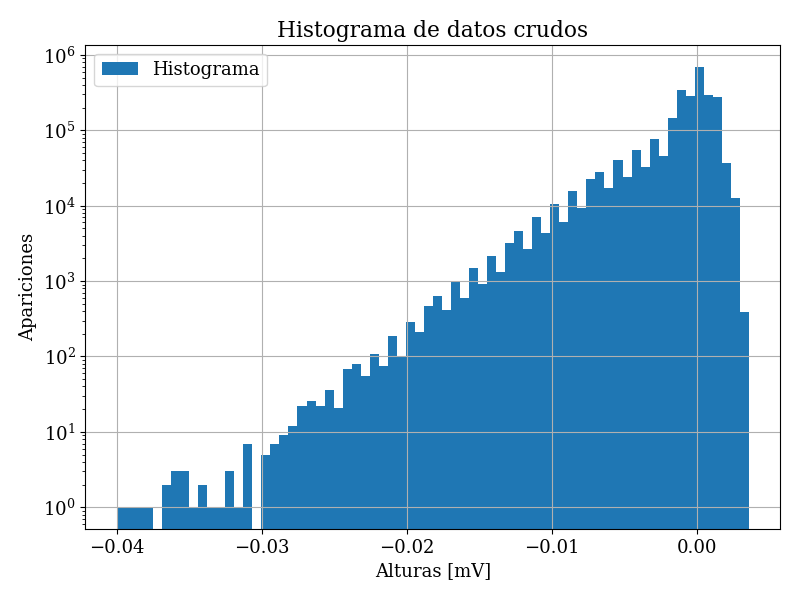
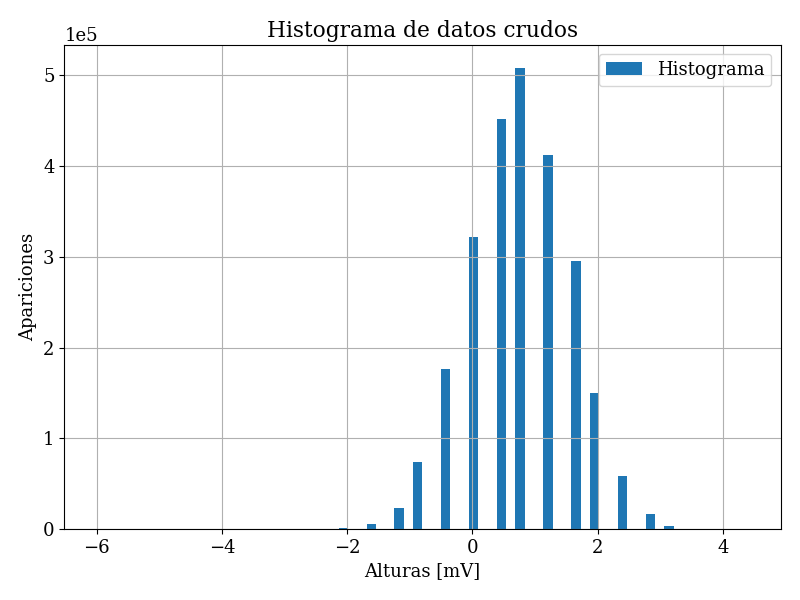
version 3
Algunos updates en el script

diff --git a/Conteo de fotones/script edit del trabajo del grupo 8.py b/Conteo de fotones/script edit del trabajo del grupo 8.py
@@ -14,70 +14,6 @@ from scipy.stats import poisson
 import pandas as pd
 from scipy.optimize import curve_fit
 os.chdir('D:\Documentos\Documentos-facultad\Labo 5\Laboratorio-5\Conteo de fotones')
-# Pantalla = np.loadtxt('Foton BE.csv', delimiter = ',')
-# Pantalla = np.loadtxt('Foton BE.csv', delimiter = ',')
-Pantalla = np.load(r'D:/Documentos/Documentos-facultad/Labo 5/Laboratorio-5/Conteo de fotones/Grupo v3 dia 2 disco d/Grupo v3/1000 ventanas encendido 10mv 1us.npz')
-prelim = np.loadtxt(r'D:/Documentos/Documentos-facultad/Labo 5/Laboratorio-5/Conteo de fotones/Grupo 3v/data_preliminar_100ohm 25ns.txt',delimiter=',')
- 
-for item in Pantalla.keys():
-    print(item)
-
-for item in Pantalla.values():
-    print(item)
-    
-#%%
-plt.figure(1,figsize=(10,6))
-plt.clf()
-plt.rc('font', family='serif', size=13)
-fig, ax = plt.subplots(1,1,num=1, sharex=True)
-# 1 Muestro la referencia.
-ax.plot(prelim[0], prelim[1], label='Osc. screen')
-ax.set_xlabel("Tiempo[s]")
-ax.set_ylabel("Voltaje[V]")
-ax.ticklabel_format(axis='y',style='sci',scilimits=(1,4))
-ax.set_title('Pulso 25 ns')
-ax.legend(loc='lower right')
-ax.grid(True)
-ax.set_xlim(prelim[0].min(),prelim[0].max())
-# Ordenamos y salvamos la figura.
-plt.tight_layout()
-plt.show()  
-plt.savefig('pulso 25 ns.png')
-
-#%% DATOS CRUDOS
-
-Pantalla = Pantalla['screens']
-plt.plot(range(len(Pantalla)), Pantalla)
-plt.title("Pulso")
-plt.ylabel("Voltaje[V]")
-plt.xlabel("Tiempo[s]")
-# plt.xlim([0,0.010])
-plt.grid(True)
-
-#%% HISTOGRAMA DE LOS DATOS CRUDOS
-plt.figure(1,figsize=(8,6))
-plt.clf()
-plt.rc('font', family='serif', size=13)
-fig, ax = plt.subplots(1,1,num=1, sharex=True)
-# 1 Muestro la referencia.
-ax.hist(Pantalla ,bins = 70, label='Histograma')
-ax.set_xlabel("Alturas [mV]")
-ax.set_ylabel("Apariciones")
-ax.ticklabel_format(axis='y',style='sci',scilimits=(1,4))
-ax.set_title('Histograma de datos crudos')
-ax.set_yscale('log')
-ax.legend()
-ax.grid(True)
-# Ordenamos y salvamos la figura.
-plt.tight_layout()
-plt.show()  
-plt.savefig('Histograma de cuentas apagadas.png')
-#%%
-
-escala = 1.25 # microsegundos
-resolucion = escala/250*1e-6 # Consutla
-tiempo = np.arange(0, resolucion*(2500*500), resolucion)
-data=Pantalla
 
 #%% Funciones
 
@@ -136,6 +72,104 @@ def busca_picos(Intensidades, delta, umbral):
     return np.array(ubi_picos)
 
 #%%
+
+# Pantalla = np.loadtxt('Foton BE.csv', delimiter = ',')
+# Pantalla = np.loadtxt('Foton BE.csv', delimiter = ',')
+Pantalla = np.load(r'D:/Documentos/Documentos-facultad/Labo 5/Laboratorio-5/Conteo de fotones/Grupo v3 dia 2 disco d/Grupo v3/1000 ventanas apagado 10mv 1us.npz')
+prelim = np.loadtxt(r'D:/Documentos/Documentos-facultad/Labo 5/Laboratorio-5/Conteo de fotones/Grupo 3v/data_preliminar_100ohm 25ns.txt',delimiter=',')
+ 
+for item in Pantalla.keys():
+    print(item)
+
+for item in Pantalla.values():
+    print(item)
+    
+#%%
+
+plt.figure(1,figsize=(10,6))
+plt.clf()
+plt.rc('font', family='serif', size=13)
+fig, ax = plt.subplots(1,1,num=1, sharex=True)
+# 1 Muestro la referencia.
+ax.plot(prelim[0], prelim[1], label='Osc. screen')
+ax.set_xlabel("Tiempo[s]")
+ax.set_ylabel("Voltaje[V]")
+ax.ticklabel_format(axis='y',style='sci',scilimits=(1,4))
+ax.set_title('Pulso 25 ns')
+ax.legend(loc='lower right')
+ax.grid(True)
+ax.set_xlim(prelim[0].min(),prelim[0].max())
+# Ordenamos y salvamos la figura.
+plt.tight_layout()
+plt.show()  
+plt.savefig('pulso 25 ns.png')
+
+#%% DATOS CRUDOS
+
+Pantalla = Pantalla['screens']
+plt.plot(range(len(Pantalla)), Pantalla)
+plt.title("Pulso")
+plt.ylabel("Voltaje[V]")
+plt.xlabel("Tiempo[s]")
+# plt.xlim([0,0.010])
+plt.grid(True)
+
+#%% HISTOGRAMA DE LOS DATOS CRUDOS DE LAS CUENTAS APAGADAS
+
+plt.figure(1,figsize=(8,6))
+plt.clf()
+plt.rc('font', family='serif', size=13)
+fig, ax = plt.subplots(1,1,num=1, sharex=True)
+# 1 Muestro la referencia.
+a = ax.hist(Pantalla*1e3 ,bins = 70, label='Histograma')
+ax.set_xlabel("Alturas [mV]")
+ax.set_ylabel("Apariciones")
+ax.ticklabel_format(axis='y',style='sci',scilimits=(1,4))
+ax.set_title('Histograma de datos crudos')
+# ax.set_yscale('log')
+ax.legend()
+ax.grid(True)
+# Ordenamos y salvamos la figura.
+plt.tight_layout()
+plt.show()  
+plt.savefig('Histograma de cuentas apagadas.png')
+
+#%% AJUSTE DE GAUSSIANA DE CUENTAS OSCURAS
+
+'''AL usar plt.hist como se configuro previamente es necesario matar los puntos que quedan
+pegados en y = 0 y tomar los maximos correspondientes, para esto se realiza el siguiente 
+crop en los datos'''
+
+x = a[1][np.where(a[0]>0)]
+y = a[0][np.where(a[0]>0)]
+print(y.max())
+# y = y/y.max() # normalice para que el algoritmo converja mejor
+
+# plt.plot(x,y,".") # Chequeo que lo que obtuve sea correcto
+
+parametros_optimos, matriz_de_cov = curve_fit(gauss, x, y, p0=[500000,0.6, 0.8])
+error = np.sqrt(np.diag(matriz_de_cov))
+X = np.linspace(x.min(),x.max(),1000)
+plt.plot(x,y,".") 
+plt.plot(X,gauss(X,*parametros_optimos))
+print(f' Parametros = {parametros_optimos}\n errores={error}')
+
+#%%
+
+Pantalla = np.load(r'D:/Documentos/Documentos-facultad/Labo 5/Laboratorio-5/Conteo de fotones/Grupo v3 dia 2 disco d/Grupo v3/1000 ventanas encendido 10mv 1us.npz')
+
+for item in Pantalla.keys():
+    print(item)
+
+for item in Pantalla.values():
+    print(item)
+    
+data=Pantalla['screens']
+escala = 1.25 # microsegundos
+resolucion = escala/250*1e-6 # Consutla
+tiempo = np.arange(0, resolucion*(len(data)), resolucion)
+
+#%%
 alturas = []
 t_a = []
 delta = 2
@@ -153,7 +187,9 @@ for index in ubi_picos2:
     t_a.append(tiempo[index])    
 
 print(len(alturas))
+
 #%%
+
 plt.figure()
 plt.plot(tiempo, data)
 # plt.plot(tiempo[0:len(tiempo)]*1e6, data[0:len(tiempo)]*1e3)
@@ -164,15 +200,20 @@ plt.xlabel("Tiempo[us]")
 # plt.xlim([0, 4])
 # plt.ylim([-10, 2])
 plt.grid(True)
+#%% ALTURAS RECORTANDO LOS PICOS
+t = np.array(t_a[0:len(t_a)])
+peak = np.array(alturas[0:len(t_a)])*1e2
+# peak_cut_index = np.where(peak<-) 
+plt.plot(t,peak)
 #%% HISTOGRAMA DE LOS DATOS CRUDOS (NO PICOS)
 
 plt.figure()
-plt.hist(Pantalla*100,bins=200)
+plt.hist(data*100,bins=200)
 plt.grid(True)
 plt.legend()
 plt.xlabel('Alturas[mV]')
 plt.ylabel('Apariciones')    
-plt.title('Histograma de picos')
+plt.title('Histograma de los datos')
 plt.yscale("log")
 # plt.ylim([100, 100000])
 
@@ -221,18 +262,25 @@ ax[1].vlines(-2.5,100,1000000,ls="--",label='Threshold') , ax[1].legend()
 plt.tight_layout()
 plt.show()  
 plt.savefig('histograma edit propio.png')
+#%%
+
+
+
+
 #%% RECORTANDO EN EL UMBRAL FIJADO A OJO EN -2.5
 #    recortando en el umbralllll
+
 data_escalada = data*1e3
 index_recorte = np.where(data_escalada<-2.5)
 # plt.hist(data_escalada[index_recorte],bins=100)
 data = data[index_recorte]
 tiempo = tiempo[index_recorte]
+
 #%%
+
 alturas = []
 t_a = []
 delta = 2
-
 
 ubi_picos1 = busca_picos(-data, delta, 0.00001 )
 ubi_picos2 = busca_picos(data, delta, 0.00001 )
@@ -246,7 +294,9 @@ for index in ubi_picos2:
     t_a.append(tiempo[index])    
 
 print(len(alturas))
+
 #%%
+
 plt.figure()
 plt.plot(tiempo, data)
 # plt.plot(tiempo[0:len(tiempo)]*1e6, data[0:len(tiempo)]*1e3)
@@ -258,8 +308,8 @@ plt.xlabel("Tiempo[us]")
 # plt.ylim([-10, 2])
 plt.grid(True)
 
-
 #%%
+
 mediciones = np.array(alturas)*1e3
 # mediciones = data*1e3
 DV = 0.08
@@ -345,12 +395,14 @@ plt.ylabel('Voltaje [V]')
 plt.title("Pantalla")
 
 #%%
+
 prom = np.mean(d)
 # prom = 0
 Corre = np.correlate(d - prom, d - prom, mode = "full")
 print(len(Corre))
 
 #%%
+
 paso = t[1]-t[0]
 ti_c = np.linspace(0, paso*2*len(t)-2, 2*len(t)-1)
 plt.plot(ti_c, Corre)
